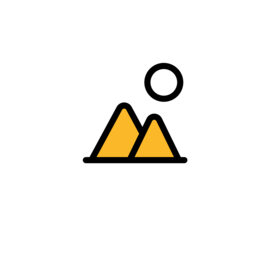
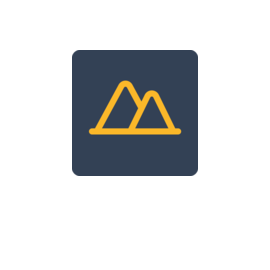
feat: added new styling, optimized some stuff

Changed region(s): [[0.2667, 0.1778, 0.7407, 0.6519]]

diff --git a/src/components/peek.tsx b/src/components/peek.tsx
@@ -1,6 +1,7 @@
 import { motion } from "framer-motion";
 import { Webcam } from "../services/sheet";
 import { joinClassNames } from "../utils/joinClassnames";
+import Caption from "./caption";
 
 type Props = {
   webcam: Webcam;
@@ -17,33 +18,15 @@ export default function Peek({ webcam }: Props): JSX.Element {
         layoutId={webcam.name}
         className="relative border-[3px] border-white bg-white rounded-xl shadow-2xl"
       >
-        <div className="rounded-xl overflow-hidden">
-          <div
-            className={joinClassNames([
-              "w-[95vw] h-[40vh] lg:h-[80vh] overflow-auto",
-              !webcam.panorama && "max-w-[1000px]",
-            ])}
-          >
-            <img src={imgUrl} className="w-auto h-full max-w-none" />
-          </div>
+        <div
+          className={joinClassNames([
+            "w-[95vw] h-[40vh] lg:h-[80vh] overflow-auto rounded-xl",
+            !webcam.panorama && "max-w-[1000px]",
+          ])}
+        >
+          <img src={imgUrl} className="w-auto h-full max-w-none" />
         </div>
-        <span className="absolute -bottom-10 left-1/2 -translate-x-1/2 flex gap-1">
-          <span className="bg-white px-2 py-1 rounded-xl text-sm shadow-md whitespace-nowrap">
-            {webcam.name}
-          </span>
-          <span className="bg-white px-2 py-1 rounded text-sm shadow-md flex justify-center items-center">
-            <a href={webcam.link} target="_blank" rel="noopener noreferrer">
-              <svg
-                xmlns="http://www.w3.org/2000/svg"
-                viewBox="0 0 24 24"
-                width="18px"
-                height="18px"
-              >
-                <path d="M 19.980469 2.9902344 A 1.0001 1.0001 0 0 0 19.869141 3 L 15 3 A 1.0001 1.0001 0 1 0 15 5 L 17.585938 5 L 8.2929688 14.292969 A 1.0001 1.0001 0 1 0 9.7070312 15.707031 L 19 6.4140625 L 19 9 A 1.0001 1.0001 0 1 0 21 9 L 21 4.1269531 A 1.0001 1.0001 0 0 0 19.980469 2.9902344 z M 5 3 C 3.9069372 3 3 3.9069372 3 5 L 3 19 C 3 20.093063 3.9069372 21 5 21 L 19 21 C 20.093063 21 21 20.093063 21 19 L 21 13 A 1.0001 1.0001 0 1 0 19 13 L 19 19 L 5 19 L 5 5 L 11 5 A 1.0001 1.0001 0 1 0 11 3 L 5 3 z" />
-              </svg>
-            </a>
-          </span>
-        </span>
+        <Caption name={webcam.name} link={webcam.link} />
       </motion.div>
     </div>
   );

diff --git a/src/pages/index.tsx b/src/pages/index.tsx
@@ -2,6 +2,7 @@ import { AnimatePresence } from "framer-motion";
 import dynamic from "next/dynamic";
 import Head from "next/head";
 import { useState } from "react";
+import Logo from "../components/icons/logo";
 import Peek from "../components/peek";
 import { getWebcamData, Webcam, WebcamData } from "../services/sheet";
 
@@ -36,11 +37,14 @@ export default function Home({ webcamData }: Props) {
         <title>Sunpeak App</title>
       </Head>
 
-      <main>
-        <div
-          className={`absolute top-0 left-0 w-full h-full ${
-            peek ? "cursor-pointer" : ""
-          }`}
+      <div className="absolute top-0 left-0 w-full h-full flex flex-col">
+        <header className="grow-0 h-12 bg-slate-700 text-sunpeak-yellow flex items-center justify-center gap-2 justify-items-stretch">
+          <Logo />
+          <h1>Sunpeak</h1>
+        </header>
+
+        <main
+          className={`grow ${peek ? "cursor-pointer" : ""}`}
           onClick={handleClosePeek}
         >
           <DynamicMap
@@ -49,8 +53,8 @@ export default function Home({ webcamData }: Props) {
           />
 
           <AnimatePresence>{peek && <Peek webcam={peek} />}</AnimatePresence>
-        </div>
-      </main>
+        </main>
+      </div>
     </>
   );
 }

diff --git a/src/components/cam.tsx b/src/components/cam.tsx
@@ -23,7 +23,7 @@ export default function Cam({ webcam, size, togglePeek }: Props): JSX.Element {
           <motion.div
             layoutId={webcam.name}
             onClick={togglePeek}
-            className="relative z-10 cursor-pointer border-[3px] border-white bg-white rounded-xl shadow-md bg-cover bg-center"
+            className="relative z-10 cursor-pointer border-2 border-white bg-slate-700 rounded-xl shadow-md bg-cover bg-center"
             style={{
               backgroundImage: `url(${imgUrl})`,
               width: `${size}px`,
@@ -32,7 +32,7 @@ export default function Cam({ webcam, size, togglePeek }: Props): JSX.Element {
               marginLeft: `-${size / 2}px`,
             }}
           />
-          <div className="absolute -top-1 -left-2 w-4 h-4 rotate-45 bg-white z-0"></div>
+          <div className="absolute -top-1 -left-1 w-2 h-2 rotate-45 bg-white z-0"></div>
         </div>
       </ROverlay>
     </RFeature>

diff --git a/src/components/icons/logo.tsx b/src/components/icons/logo.tsx
@@ -1,0 +1,19 @@
+export default function Logo() {
+  return (
+    <svg
+      width="36"
+      height="21"
+      viewBox="0 0 851 495"
+      fill="none"
+      xmlns="http://www.w3.org/2000/svg"
+    >
+      <path
+        d="M380.903 469.281H781.293L621.137 141.122C617.494 133.615 611.806 127.283 604.725 122.853C597.644 118.422 589.455 116.073 581.098 116.073C572.741 116.073 564.552 118.422 557.471 122.853C550.39 127.283 544.702 133.615 541.059 141.122L380.903 469.281ZM380.903 469.281H69.4878L297.266 48.3142C301.078 41.2648 306.729 35.3758 313.621 31.2714C320.513 27.167 328.389 25 336.415 25C344.441 25 352.317 27.167 359.209 31.2714C366.101 35.3758 371.752 41.2648 375.564 48.3142L486.339 253.469L380.903 469.281ZM25 469.281H825.781"
+        stroke="#FBB829"
+        strokeWidth="50"
+        strokeLinecap="round"
+        strokeLinejoin="round"
+      />
+    </svg>
+  );
+}

diff --git a/src/pages/_document.tsx b/src/pages/_document.tsx
@@ -24,8 +24,18 @@ export default class CustomDocument extends Document {
           />
           <link rel="manifest" href="/site.webmanifest" />
           <link rel="mask-icon" href="/safari-pinned-tab.svg" color="#5bbad5" />
-          <link rel="icon" href="/favicon.ico" />
-          <meta name="theme-color" content="#ffffff"></meta>
+          <meta name="msapplication-TileColor" content="#da532c" />
+          <meta name="theme-color" content="#334155" />
+          <link rel="preconnect" href="https://fonts.googleapis.com" />
+          <link
+            rel="preconnect"
+            href="https://fonts.gstatic.com"
+            crossOrigin=""
+          />
+          <link
+            href="https://fonts.googleapis.com/css2?family=Lexend&display=swap"
+            rel="stylesheet"
+          />
         </Head>
         <body>
           <Main />

diff --git a/src/components/icons/link.tsx b/src/components/icons/link.tsx
@@ -1,0 +1,12 @@
+export default function Link() {
+  return (
+    <svg
+      xmlns="http://www.w3.org/2000/svg"
+      viewBox="0 0 24 24"
+      width="18px"
+      height="18px"
+    >
+      <path d="M 19.980469 2.9902344 A 1.0001 1.0001 0 0 0 19.869141 3 L 15 3 A 1.0001 1.0001 0 1 0 15 5 L 17.585938 5 L 8.2929688 14.292969 A 1.0001 1.0001 0 1 0 9.7070312 15.707031 L 19 6.4140625 L 19 9 A 1.0001 1.0001 0 1 0 21 9 L 21 4.1269531 A 1.0001 1.0001 0 0 0 19.980469 2.9902344 z M 5 3 C 3.9069372 3 3 3.9069372 3 5 L 3 19 C 3 20.093063 3.9069372 21 5 21 L 19 21 C 20.093063 21 21 20.093063 21 19 L 21 13 A 1.0001 1.0001 0 1 0 19 13 L 19 19 L 5 19 L 5 5 L 11 5 A 1.0001 1.0001 0 1 0 11 3 L 5 3 z" />
+    </svg>
+  );
+}

diff --git a/src/components/caption.tsx b/src/components/caption.tsx
@@ -1,0 +1,21 @@
+import Link from "./icons/link";
+
+type Props = {
+  name: string;
+  link: string;
+};
+
+export default function Caption({ name, link }: Props): JSX.Element {
+  return (
+    <span className="absolute -bottom-9 left-1/2 -translate-x-1/2 flex gap-1">
+      <span className="bg-white px-2 py-1 rounded text-sm shadow-md whitespace-nowrap">
+        {name}
+      </span>
+      <span className="bg-white px-2 py-1 rounded text-sm shadow-md flex justify-center items-center">
+        <a href={link} target="_blank" rel="noopener noreferrer">
+          <Link />
+        </a>
+      </span>
+    </span>
+  );
+}

diff --git a/tailwind.config.js b/tailwind.config.js
@@ -2,6 +2,12 @@ module.exports = {
   content: ["./src/**/*.{js,ts,jsx,tsx}"],
   theme: {
     extend: {
+      colors: {
+        "sunpeak-yellow": "#FBB829",
+      },
+      fontFamily: {
+        sans: ['"Lexend"', "sans-serif"],
+      },
       // Define animation class
       animation: {
         "move-background": "move-bg 120s linear infinite",
